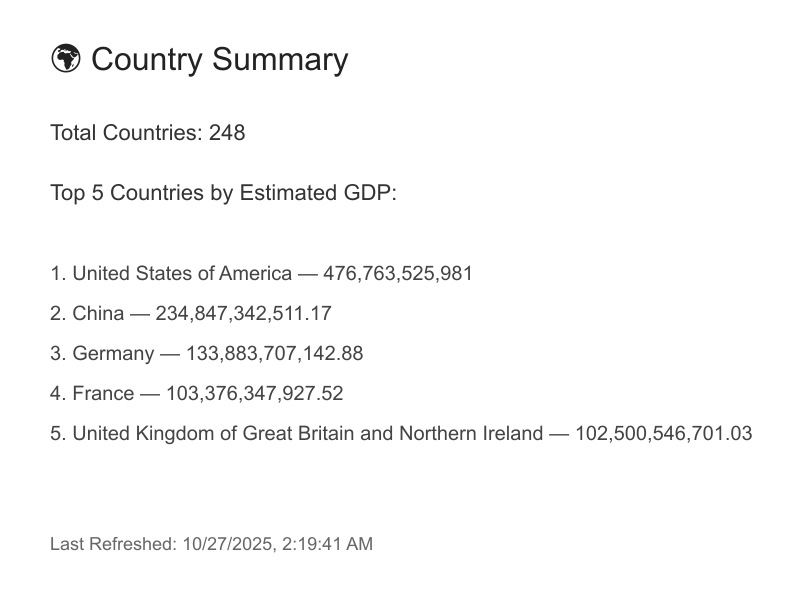
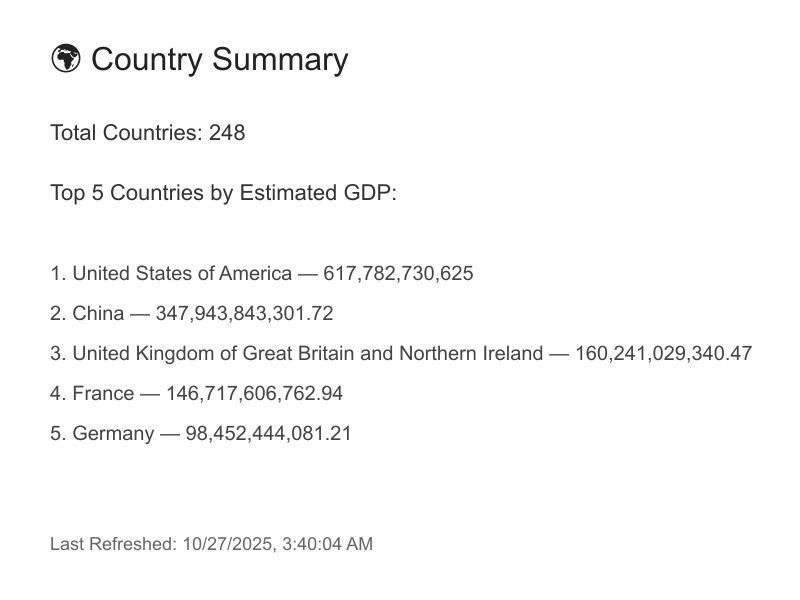
worked on db

diff --git a/src/services/CountryService.js b/src/services/CountryService.js
@@ -43,13 +43,15 @@ export async function refreshCountries() {
         last_refreshed_at: now
       };
 
-      const existing = await Country.findOne({
-        where: sequelize.where(fn('LOWER', col('name')), name.toLowerCase()),
-        transaction: t
-      });
+      await Country.upsert(data, { transaction: t });
 
-      if (existing) await existing.update(data, { transaction: t });
-      else await Country.create(data, { transaction: t });
+    //   const existing = await Country.findOne({
+    //     where: sequelize.where(fn('LOWER', col('name')), name.toLowerCase()),
+    //     transaction: t
+    //   });
+
+    //   if (existing) await existing.update(data, { transaction: t });
+    //   else await Country.create(data, { transaction: t });
     }
 
     const top5 = await Country.findAll({
@@ -60,10 +62,16 @@ export async function refreshCountries() {
     });
 
     const total = await Country.count({ transaction: t });
-    await createSummaryImage({ totalCountries: total, topCountries: top5, lastRefreshedAt: now });
+
+    try {
+      await createSummaryImage({ totalCountries: total, topCountries: top5, lastRefreshedAt: now });
+    } catch(err) {
+      console.error("Summary image creation failed:", err);
+    };
+
   });
 } catch (error) {
-  console.error("❌ Error in refreshCountries:", error);
+  console.error("Error in refreshCountries:", error);
   throw new Error("Refresh failed");
 };
 
